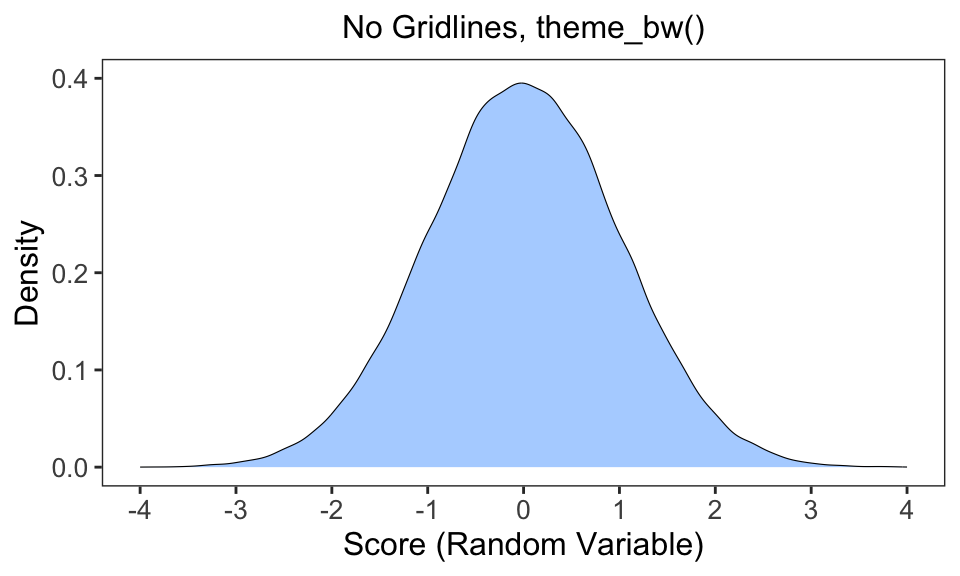
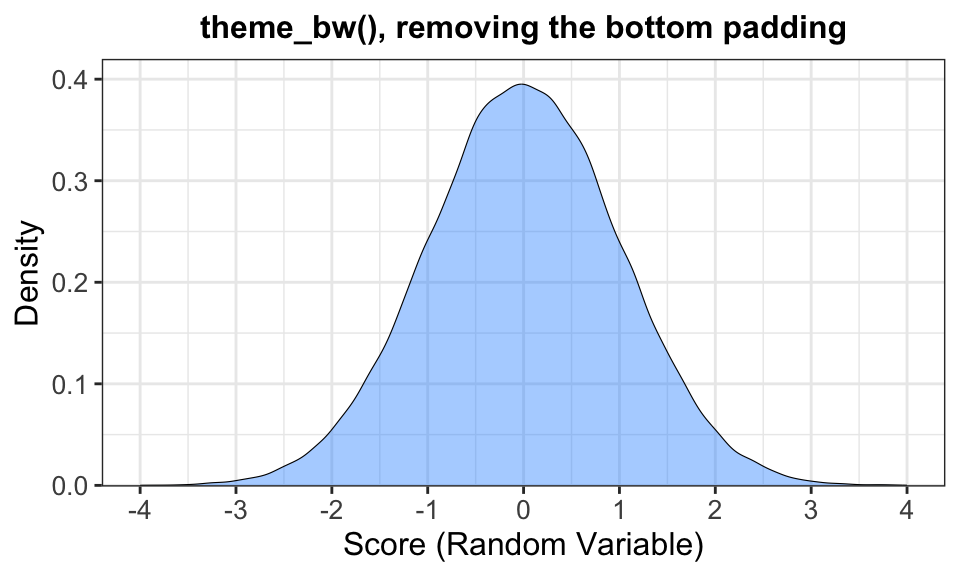
a203

diff --git a/dataps/dataviz.html b/dataps/dataviz.html
@@ -506,21 +506,21 @@ div.csl-indent {
 </div>
 </div>
 <p>In political science research, I have found that the default, minimal, and bw tend to be the most popular. I have also included classic, with its x-axis and y-axis only and also no gridlines. With the specific use of the x-axis and y-axis, a literal data visualization principle would suggest that classic should only be used if the intersection of the x and y-axes is truly the origin (i.e., 0 for both x and y). That fits the bill for the y-axis in this case but not for the x-axis.</p>
-<p>Another data visualization consideration is the “padding” that <code>ggplot</code> adds by default on both ends of each axis. The horizontal padding at the bottom of the graphs is most glaring in this graph because the “floor” is supposed to be zero (which is the minimum possible value of y in this case). Note however the visible gap before this floor in the default, bw, and classic graphs. Because of the look of the minimal theme,</p>
-<p>Take out gridlines:</p>
+<p>Another data visualization consideration is the “padding” that <code>ggplot</code> adds by default on both ends of each axis. The horizontal padding at the bottom of the graphs is most glaring in this graph because the “floor” is supposed to be zero (which is the minimum possible value of y in this case). Note however the visible gap below this floor in the default, bw, and classic graphs. Because of the lack of a background (as in the default) or frame (as in bw), the padding issue is not glaring in the minimal theme.</p>
+<p>To take out the gap on the bottom in <code>theme_bw()</code>, for instance, we could use the <code>expand</code> option within <code>scale_y_continuous</code>. <code>ggplot</code> adds a 5% padding gap on both sides of each axis. That is satisfactory for the x-axis because it ranges from -4 to 4, and we want the padding to exist on the ends to suggest that these are not necessarily theoretical limits. Focusing on the y-axis, however, we want to indicate that 0 <em>is</em> a limit (the minimum, or floor) yet 0.4 is not necessarily a limit. Thus, within <code>scale_y_continuous</code>, I use the <code>expand</code> option to keep the 5% padding at the top (the 0.05, which means 5%, within <code>mult = c(0.003, 0.05)</code>) and I reduce the padding at the bottom to (near) 0 (the 0.003). Why not just use 0 instead of 0.003? I have found that when I use 0, the 0 tick appears just below the bottom border, whereas I like to align the 0 tick with the bottom border.</p>
 <div class="cell" data-layout-align="center">
 <div class="sourceCode cell-code" id="cb10"><pre class="sourceCode r code-with-copy"><code class="sourceCode r"><span id="cb10-1"><a href="#cb10-1" aria-hidden="true" tabindex="-1"></a>mynorm <span class="sc">|&gt;</span> </span>
 <span id="cb10-2"><a href="#cb10-2" aria-hidden="true" tabindex="-1"></a>  <span class="fu">ggplot</span>(<span class="fu">aes</span>(<span class="at">x=</span>score)) <span class="sc">+</span> </span>
 <span id="cb10-3"><a href="#cb10-3" aria-hidden="true" tabindex="-1"></a>  <span class="fu">geom_density</span>(<span class="at">fill=</span><span class="st">"dodgerblue"</span>, <span class="at">alpha=</span>.<span class="dv">4</span>, <span class="at">linewidth=</span>.<span class="dv">2</span>) <span class="sc">+</span> </span>
-<span id="cb10-4"><a href="#cb10-4" aria-hidden="true" tabindex="-1"></a>  <span class="fu">labs</span>(<span class="at">title=</span><span class="st">"No Gridlines, theme_bw()"</span>, </span>
+<span id="cb10-4"><a href="#cb10-4" aria-hidden="true" tabindex="-1"></a>  <span class="fu">labs</span>(<span class="at">title=</span><span class="st">"theme_bw(), removing the bottom padding"</span>, </span>
 <span id="cb10-5"><a href="#cb10-5" aria-hidden="true" tabindex="-1"></a>       <span class="at">x=</span><span class="st">"Score (Random Variable)"</span>, <span class="at">y=</span><span class="st">"Density"</span>) <span class="sc">+</span></span>
 <span id="cb10-6"><a href="#cb10-6" aria-hidden="true" tabindex="-1"></a>  <span class="fu">scale_x_continuous</span>(<span class="at">limits =</span> <span class="fu">c</span>(<span class="sc">-</span><span class="dv">4</span>, <span class="dv">4</span>), <span class="at">breaks =</span> <span class="fu">seq</span>(<span class="sc">-</span><span class="dv">4</span>, <span class="dv">4</span>, <span class="dv">1</span>)) <span class="sc">+</span></span>
-<span id="cb10-7"><a href="#cb10-7" aria-hidden="true" tabindex="-1"></a>  <span class="fu">scale_y_continuous</span>(<span class="at">limits =</span> <span class="fu">c</span>(<span class="dv">0</span>, .<span class="dv">4</span>), <span class="at">breaks =</span> <span class="fu">seq</span>(<span class="dv">0</span>, .<span class="dv">4</span>, .<span class="dv">1</span>)) <span class="sc">+</span></span>
-<span id="cb10-8"><a href="#cb10-8" aria-hidden="true" tabindex="-1"></a>  <span class="fu">theme_bw</span>() <span class="sc">+</span></span>
-<span id="cb10-9"><a href="#cb10-9" aria-hidden="true" tabindex="-1"></a>  <span class="fu">theme</span>(<span class="at">plot.title =</span> <span class="fu">element_text</span>(<span class="at">hjust =</span> <span class="fl">0.5</span>, <span class="at">size=</span><span class="dv">12</span>), </span>
-<span id="cb10-10"><a href="#cb10-10" aria-hidden="true" tabindex="-1"></a>        <span class="at">axis.title =</span> <span class="fu">element_text</span>(<span class="at">size =</span> <span class="dv">12</span>),  </span>
-<span id="cb10-11"><a href="#cb10-11" aria-hidden="true" tabindex="-1"></a>        <span class="at">axis.text  =</span> <span class="fu">element_text</span>(<span class="at">size =</span> <span class="dv">10</span>), </span>
-<span id="cb10-12"><a href="#cb10-12" aria-hidden="true" tabindex="-1"></a>        <span class="at">panel.grid =</span> <span class="fu">element_blank</span>()) </span></code><button title="Copy to Clipboard" class="code-copy-button"><i class="bi"></i></button></pre></div>
+<span id="cb10-7"><a href="#cb10-7" aria-hidden="true" tabindex="-1"></a>  <span class="fu">scale_y_continuous</span>(<span class="at">limits =</span> <span class="fu">c</span>(<span class="dv">0</span>, .<span class="dv">4</span>), <span class="at">breaks =</span> <span class="fu">seq</span>(<span class="dv">0</span>, .<span class="dv">4</span>, .<span class="dv">1</span>), </span>
+<span id="cb10-8"><a href="#cb10-8" aria-hidden="true" tabindex="-1"></a>                     <span class="at">expand =</span> <span class="fu">expansion</span>(<span class="at">mult =</span> <span class="fu">c</span>(<span class="fl">0.003</span>, <span class="fl">0.05</span>))) <span class="sc">+</span></span>
+<span id="cb10-9"><a href="#cb10-9" aria-hidden="true" tabindex="-1"></a>  <span class="fu">theme_bw</span>() <span class="sc">+</span></span>
+<span id="cb10-10"><a href="#cb10-10" aria-hidden="true" tabindex="-1"></a>  <span class="fu">theme</span>(<span class="at">plot.title =</span> <span class="fu">element_text</span>(<span class="at">hjust =</span> <span class="fl">0.5</span>, <span class="at">size=</span><span class="dv">12</span>, <span class="at">face =</span> <span class="st">"bold"</span>), </span>
+<span id="cb10-11"><a href="#cb10-11" aria-hidden="true" tabindex="-1"></a>        <span class="at">axis.title =</span> <span class="fu">element_text</span>(<span class="at">size =</span> <span class="dv">12</span>),  </span>
+<span id="cb10-12"><a href="#cb10-12" aria-hidden="true" tabindex="-1"></a>        <span class="at">axis.text  =</span> <span class="fu">element_text</span>(<span class="at">size =</span> <span class="dv">10</span>)) </span></code><button title="Copy to Clipboard" class="code-copy-button"><i class="bi"></i></button></pre></div>
 <div class="cell-output-display">
 <div class="quarto-figure quarto-figure-center">
 <figure class="figure">
@@ -529,32 +529,106 @@ div.csl-indent {
 </div>
 </div>
 </div>
+<p>Note the difference between this graph and the prior graph that used <code>theme_bw()</code> — it now reduces the padding gap at the bottom.</p>
+<p>Sometimes researchers will have reasons to remove the gridlines altogether or change their look. Below, I show an example that removes the gridlines using theme_bw().</p>
+<div class="cell" data-layout-align="center">
+<div class="sourceCode cell-code" id="cb11"><pre class="sourceCode r code-with-copy"><code class="sourceCode r"><span id="cb11-1"><a href="#cb11-1" aria-hidden="true" tabindex="-1"></a>a <span class="ot">&lt;-</span> mynorm <span class="sc">|&gt;</span> </span>
+<span id="cb11-2"><a href="#cb11-2" aria-hidden="true" tabindex="-1"></a>  <span class="fu">ggplot</span>(<span class="fu">aes</span>(<span class="at">x=</span>score)) <span class="sc">+</span> </span>
+<span id="cb11-3"><a href="#cb11-3" aria-hidden="true" tabindex="-1"></a>  <span class="fu">geom_density</span>(<span class="at">fill=</span><span class="st">"dodgerblue"</span>, <span class="at">alpha=</span>.<span class="dv">4</span>, <span class="at">linewidth=</span>.<span class="dv">2</span>) <span class="sc">+</span> </span>
+<span id="cb11-4"><a href="#cb11-4" aria-hidden="true" tabindex="-1"></a>  <span class="fu">labs</span>(<span class="at">title=</span><span class="st">"No Gridlines"</span>, </span>
+<span id="cb11-5"><a href="#cb11-5" aria-hidden="true" tabindex="-1"></a>       <span class="at">x=</span><span class="st">"Score (Random Variable)</span><span class="sc">\n</span><span class="st">"</span>, <span class="at">y=</span><span class="st">"Density"</span>) <span class="sc">+</span></span>
+<span id="cb11-6"><a href="#cb11-6" aria-hidden="true" tabindex="-1"></a>  <span class="fu">scale_x_continuous</span>(<span class="at">limits =</span> <span class="fu">c</span>(<span class="sc">-</span><span class="dv">4</span>, <span class="dv">4</span>), <span class="at">breaks =</span> <span class="fu">seq</span>(<span class="sc">-</span><span class="dv">4</span>, <span class="dv">4</span>, <span class="dv">1</span>)) <span class="sc">+</span></span>
+<span id="cb11-7"><a href="#cb11-7" aria-hidden="true" tabindex="-1"></a>  <span class="fu">scale_y_continuous</span>(<span class="at">limits =</span> <span class="fu">c</span>(<span class="dv">0</span>, .<span class="dv">4</span>), <span class="at">breaks =</span> <span class="fu">seq</span>(<span class="dv">0</span>, .<span class="dv">4</span>, .<span class="dv">1</span>), </span>
+<span id="cb11-8"><a href="#cb11-8" aria-hidden="true" tabindex="-1"></a>                     <span class="at">expand =</span> <span class="fu">expansion</span>(<span class="at">mult =</span> <span class="fu">c</span>(<span class="fl">0.003</span>, <span class="fl">0.05</span>))) <span class="sc">+</span></span>
+<span id="cb11-9"><a href="#cb11-9" aria-hidden="true" tabindex="-1"></a>  <span class="fu">theme_bw</span>() <span class="sc">+</span></span>
+<span id="cb11-10"><a href="#cb11-10" aria-hidden="true" tabindex="-1"></a>  <span class="fu">theme</span>(<span class="at">plot.title =</span> <span class="fu">element_text</span>(<span class="at">hjust =</span> <span class="fl">0.5</span>, <span class="at">size=</span><span class="dv">12</span>, <span class="at">face=</span><span class="st">"bold"</span>), </span>
+<span id="cb11-11"><a href="#cb11-11" aria-hidden="true" tabindex="-1"></a>        <span class="at">axis.title =</span> <span class="fu">element_text</span>(<span class="at">size =</span> <span class="dv">12</span>),  </span>
+<span id="cb11-12"><a href="#cb11-12" aria-hidden="true" tabindex="-1"></a>        <span class="at">axis.text  =</span> <span class="fu">element_text</span>(<span class="at">size =</span> <span class="dv">10</span>), </span>
+<span id="cb11-13"><a href="#cb11-13" aria-hidden="true" tabindex="-1"></a>        <span class="at">panel.grid =</span> <span class="fu">element_blank</span>()) </span>
+<span id="cb11-14"><a href="#cb11-14" aria-hidden="true" tabindex="-1"></a></span>
+<span id="cb11-15"><a href="#cb11-15" aria-hidden="true" tabindex="-1"></a>b <span class="ot">&lt;-</span> mynorm <span class="sc">|&gt;</span> </span>
+<span id="cb11-16"><a href="#cb11-16" aria-hidden="true" tabindex="-1"></a>  <span class="fu">ggplot</span>(<span class="fu">aes</span>(<span class="at">x=</span>score)) <span class="sc">+</span> </span>
+<span id="cb11-17"><a href="#cb11-17" aria-hidden="true" tabindex="-1"></a>  <span class="fu">geom_density</span>(<span class="at">fill=</span><span class="st">"dodgerblue"</span>, <span class="at">alpha=</span>.<span class="dv">4</span>, <span class="at">linewidth=</span>.<span class="dv">2</span>) <span class="sc">+</span> </span>
+<span id="cb11-18"><a href="#cb11-18" aria-hidden="true" tabindex="-1"></a>  <span class="fu">labs</span>(<span class="at">title=</span><span class="st">"Major Gridlines Only"</span>, </span>
+<span id="cb11-19"><a href="#cb11-19" aria-hidden="true" tabindex="-1"></a>       <span class="at">x=</span><span class="st">"Score (Random Variable)"</span>, <span class="at">y=</span><span class="st">"Density"</span>) <span class="sc">+</span></span>
+<span id="cb11-20"><a href="#cb11-20" aria-hidden="true" tabindex="-1"></a>  <span class="fu">scale_x_continuous</span>(<span class="at">limits =</span> <span class="fu">c</span>(<span class="sc">-</span><span class="dv">4</span>, <span class="dv">4</span>), <span class="at">breaks =</span> <span class="fu">seq</span>(<span class="sc">-</span><span class="dv">4</span>, <span class="dv">4</span>, <span class="dv">1</span>)) <span class="sc">+</span></span>
+<span id="cb11-21"><a href="#cb11-21" aria-hidden="true" tabindex="-1"></a>  <span class="fu">scale_y_continuous</span>(<span class="at">limits =</span> <span class="fu">c</span>(<span class="dv">0</span>, .<span class="dv">4</span>), <span class="at">breaks =</span> <span class="fu">seq</span>(<span class="dv">0</span>, .<span class="dv">4</span>, .<span class="dv">1</span>), </span>
+<span id="cb11-22"><a href="#cb11-22" aria-hidden="true" tabindex="-1"></a>                     <span class="at">expand =</span> <span class="fu">expansion</span>(<span class="at">mult =</span> <span class="fu">c</span>(<span class="fl">0.003</span>, <span class="fl">0.05</span>))) <span class="sc">+</span></span>
+<span id="cb11-23"><a href="#cb11-23" aria-hidden="true" tabindex="-1"></a>  <span class="fu">theme_bw</span>() <span class="sc">+</span></span>
+<span id="cb11-24"><a href="#cb11-24" aria-hidden="true" tabindex="-1"></a>  <span class="fu">theme</span>(<span class="at">plot.title =</span> <span class="fu">element_text</span>(<span class="at">hjust =</span> <span class="fl">0.5</span>, <span class="at">size=</span><span class="dv">12</span>, <span class="at">face=</span><span class="st">"bold"</span>), </span>
+<span id="cb11-25"><a href="#cb11-25" aria-hidden="true" tabindex="-1"></a>        <span class="at">axis.title =</span> <span class="fu">element_text</span>(<span class="at">size =</span> <span class="dv">12</span>),  </span>
+<span id="cb11-26"><a href="#cb11-26" aria-hidden="true" tabindex="-1"></a>        <span class="at">axis.text  =</span> <span class="fu">element_text</span>(<span class="at">size =</span> <span class="dv">10</span>), </span>
+<span id="cb11-27"><a href="#cb11-27" aria-hidden="true" tabindex="-1"></a>        <span class="at">panel.grid.minor =</span> <span class="fu">element_blank</span>()) </span>
+<span id="cb11-28"><a href="#cb11-28" aria-hidden="true" tabindex="-1"></a></span>
+<span id="cb11-29"><a href="#cb11-29" aria-hidden="true" tabindex="-1"></a>c <span class="ot">&lt;-</span> mynorm <span class="sc">|&gt;</span> </span>
+<span id="cb11-30"><a href="#cb11-30" aria-hidden="true" tabindex="-1"></a>  <span class="fu">ggplot</span>(<span class="fu">aes</span>(<span class="at">x=</span>score)) <span class="sc">+</span> </span>
+<span id="cb11-31"><a href="#cb11-31" aria-hidden="true" tabindex="-1"></a>  <span class="fu">geom_density</span>(<span class="at">fill=</span><span class="st">"dodgerblue"</span>, <span class="at">alpha=</span>.<span class="dv">4</span>, <span class="at">linewidth=</span>.<span class="dv">2</span>) <span class="sc">+</span> </span>
+<span id="cb11-32"><a href="#cb11-32" aria-hidden="true" tabindex="-1"></a>  <span class="fu">labs</span>(<span class="at">title=</span><span class="st">"Major Gridlines Only, Dotted"</span>, </span>
+<span id="cb11-33"><a href="#cb11-33" aria-hidden="true" tabindex="-1"></a>       <span class="at">x=</span><span class="st">"Score (Random Variable)"</span>, <span class="at">y=</span><span class="st">"Density"</span>) <span class="sc">+</span></span>
+<span id="cb11-34"><a href="#cb11-34" aria-hidden="true" tabindex="-1"></a>  <span class="fu">scale_x_continuous</span>(<span class="at">limits =</span> <span class="fu">c</span>(<span class="sc">-</span><span class="dv">4</span>, <span class="dv">4</span>), <span class="at">breaks =</span> <span class="fu">seq</span>(<span class="sc">-</span><span class="dv">4</span>, <span class="dv">4</span>, <span class="dv">1</span>)) <span class="sc">+</span></span>
+<span id="cb11-35"><a href="#cb11-35" aria-hidden="true" tabindex="-1"></a>  <span class="fu">scale_y_continuous</span>(<span class="at">limits =</span> <span class="fu">c</span>(<span class="dv">0</span>, .<span class="dv">4</span>), <span class="at">breaks =</span> <span class="fu">seq</span>(<span class="dv">0</span>, .<span class="dv">4</span>, .<span class="dv">1</span>), </span>
+<span id="cb11-36"><a href="#cb11-36" aria-hidden="true" tabindex="-1"></a>                     <span class="at">expand =</span> <span class="fu">expansion</span>(<span class="at">mult =</span> <span class="fu">c</span>(<span class="fl">0.003</span>, <span class="fl">0.05</span>))) <span class="sc">+</span></span>
+<span id="cb11-37"><a href="#cb11-37" aria-hidden="true" tabindex="-1"></a>  <span class="fu">theme_bw</span>() <span class="sc">+</span></span>
+<span id="cb11-38"><a href="#cb11-38" aria-hidden="true" tabindex="-1"></a>  <span class="fu">theme</span>(<span class="at">plot.title =</span> <span class="fu">element_text</span>(<span class="at">hjust =</span> <span class="fl">0.5</span>, <span class="at">size=</span><span class="dv">12</span>, <span class="at">face=</span><span class="st">"bold"</span>), </span>
+<span id="cb11-39"><a href="#cb11-39" aria-hidden="true" tabindex="-1"></a>        <span class="at">axis.title =</span> <span class="fu">element_text</span>(<span class="at">size =</span> <span class="dv">12</span>),  </span>
+<span id="cb11-40"><a href="#cb11-40" aria-hidden="true" tabindex="-1"></a>        <span class="at">axis.text  =</span> <span class="fu">element_text</span>(<span class="at">size =</span> <span class="dv">10</span>), </span>
+<span id="cb11-41"><a href="#cb11-41" aria-hidden="true" tabindex="-1"></a>        <span class="at">panel.grid.minor =</span> <span class="fu">element_blank</span>(), </span>
+<span id="cb11-42"><a href="#cb11-42" aria-hidden="true" tabindex="-1"></a>        <span class="at">panel.grid.major =</span> <span class="fu">element_line</span>(<span class="at">linetype =</span> <span class="st">"dotted"</span>)) </span>
+<span id="cb11-43"><a href="#cb11-43" aria-hidden="true" tabindex="-1"></a></span>
+<span id="cb11-44"><a href="#cb11-44" aria-hidden="true" tabindex="-1"></a>d <span class="ot">&lt;-</span> mynorm <span class="sc">|&gt;</span> </span>
+<span id="cb11-45"><a href="#cb11-45" aria-hidden="true" tabindex="-1"></a>  <span class="fu">ggplot</span>(<span class="fu">aes</span>(<span class="at">x=</span>score)) <span class="sc">+</span> </span>
+<span id="cb11-46"><a href="#cb11-46" aria-hidden="true" tabindex="-1"></a>  <span class="fu">geom_density</span>(<span class="at">fill=</span><span class="st">"dodgerblue"</span>, <span class="at">alpha=</span>.<span class="dv">4</span>, <span class="at">linewidth=</span>.<span class="dv">2</span>) <span class="sc">+</span> </span>
+<span id="cb11-47"><a href="#cb11-47" aria-hidden="true" tabindex="-1"></a>  <span class="fu">labs</span>(<span class="at">title=</span><span class="st">"Major Gridlines Only, Dotted, Dark Gray"</span>, </span>
+<span id="cb11-48"><a href="#cb11-48" aria-hidden="true" tabindex="-1"></a>       <span class="at">x=</span><span class="st">"Score (Random Variable)"</span>, <span class="at">y=</span><span class="st">"Density"</span>) <span class="sc">+</span></span>
+<span id="cb11-49"><a href="#cb11-49" aria-hidden="true" tabindex="-1"></a>  <span class="fu">scale_x_continuous</span>(<span class="at">limits =</span> <span class="fu">c</span>(<span class="sc">-</span><span class="dv">4</span>, <span class="dv">4</span>), <span class="at">breaks =</span> <span class="fu">seq</span>(<span class="sc">-</span><span class="dv">4</span>, <span class="dv">4</span>, <span class="dv">1</span>)) <span class="sc">+</span></span>
+<span id="cb11-50"><a href="#cb11-50" aria-hidden="true" tabindex="-1"></a>  <span class="fu">scale_y_continuous</span>(<span class="at">limits =</span> <span class="fu">c</span>(<span class="dv">0</span>, .<span class="dv">4</span>), <span class="at">breaks =</span> <span class="fu">seq</span>(<span class="dv">0</span>, .<span class="dv">4</span>, .<span class="dv">1</span>), </span>
+<span id="cb11-51"><a href="#cb11-51" aria-hidden="true" tabindex="-1"></a>                     <span class="at">expand =</span> <span class="fu">expansion</span>(<span class="at">mult =</span> <span class="fu">c</span>(<span class="fl">0.003</span>, <span class="fl">0.05</span>))) <span class="sc">+</span></span>
+<span id="cb11-52"><a href="#cb11-52" aria-hidden="true" tabindex="-1"></a>  <span class="fu">theme_bw</span>() <span class="sc">+</span></span>
+<span id="cb11-53"><a href="#cb11-53" aria-hidden="true" tabindex="-1"></a>  <span class="fu">theme</span>(<span class="at">plot.title =</span> <span class="fu">element_text</span>(<span class="at">hjust =</span> <span class="fl">0.5</span>, <span class="at">size=</span><span class="dv">12</span>, <span class="at">face=</span><span class="st">"bold"</span>), </span>
+<span id="cb11-54"><a href="#cb11-54" aria-hidden="true" tabindex="-1"></a>        <span class="at">axis.title =</span> <span class="fu">element_text</span>(<span class="at">size =</span> <span class="dv">12</span>),  </span>
+<span id="cb11-55"><a href="#cb11-55" aria-hidden="true" tabindex="-1"></a>        <span class="at">axis.text  =</span> <span class="fu">element_text</span>(<span class="at">size =</span> <span class="dv">10</span>), </span>
+<span id="cb11-56"><a href="#cb11-56" aria-hidden="true" tabindex="-1"></a>        <span class="at">panel.grid.minor =</span> <span class="fu">element_blank</span>(), </span>
+<span id="cb11-57"><a href="#cb11-57" aria-hidden="true" tabindex="-1"></a>        <span class="at">panel.grid.major =</span> <span class="fu">element_line</span>(<span class="at">linetype =</span> <span class="st">"dotted"</span>, </span>
+<span id="cb11-58"><a href="#cb11-58" aria-hidden="true" tabindex="-1"></a>                                        <span class="at">color=</span><span class="st">"gray70"</span>)) </span>
+<span id="cb11-59"><a href="#cb11-59" aria-hidden="true" tabindex="-1"></a></span>
+<span id="cb11-60"><a href="#cb11-60" aria-hidden="true" tabindex="-1"></a></span>
+<span id="cb11-61"><a href="#cb11-61" aria-hidden="true" tabindex="-1"></a>a <span class="sc">+</span> b <span class="sc">+</span> c <span class="sc">+</span> d <span class="sc">+</span> <span class="fu">plot_layout</span>(<span class="at">ncol =</span> <span class="dv">2</span>)</span></code><button title="Copy to Clipboard" class="code-copy-button"><i class="bi"></i></button></pre></div>
+<div class="cell-output-display">
+<div class="quarto-figure quarto-figure-center">
+<figure class="figure">
+<p><img src="dataviz_files/figure-html/unnamed-chunk-11-1.png" class="img-fluid quarto-figure quarto-figure-center figure-img" width="768"></p>
+</figure>
+</div>
+</div>
+</div>
+<p>The <code>panel.grid</code> options in <code>theme</code> allow for alterations to the gridlines. The first graph eliminates all gridlines, while the second one includes “major gridlines” only (by suppressing <code>panel.grid.minor</code>). Note that ggplot specifies “major” versus “minor” gridlines. The major gridlines are those corresponding to the numeric labels on the axes. The minor gridlines are those halfway in between the major gridlines. On the bottom row, I report major gridlines only but change the linestyle to “dotted.” The lower-left graph uses the default color with dotted lines, which are barely visible; note that “dashed” lines using the default color are more visible. The last graph darkens the dashed gridlines to “gray70,” which makes the lines more visible.</p>
+<p>With some basic data visualization principles in hand, we can now proceed to generating and interpreting univariate graphs.</p>
 </section>
 </section>
 <section id="univariate-graphical-displays" class="level2" data-number="4.2">
 <h2 data-number="4.2" class="anchored" data-anchor-id="univariate-graphical-displays"><span class="header-section-number">4.2</span> Univariate Graphical Displays</h2>
 <div class="cell">
-<div class="sourceCode cell-code" id="cb11"><pre class="sourceCode r code-with-copy"><code class="sourceCode r"><span id="cb11-1"><a href="#cb11-1" aria-hidden="true" tabindex="-1"></a><span class="fu">set.seed</span>(<span class="dv">123</span>)</span>
-<span id="cb11-2"><a href="#cb11-2" aria-hidden="true" tabindex="-1"></a>mynorm2 <span class="ot">&lt;-</span> <span class="fu">data.frame</span>(<span class="at">id=</span><span class="dv">1</span><span class="sc">:</span><span class="dv">100000</span>) <span class="sc">|&gt;</span> </span>
-<span id="cb11-3"><a href="#cb11-3" aria-hidden="true" tabindex="-1"></a>  <span class="fu">mutate</span>(<span class="at">score=</span><span class="fu">rnorm</span>(<span class="at">n =</span> <span class="dv">100000</span>, <span class="at">mean =</span> <span class="dv">0</span>, <span class="at">sd =</span> <span class="dv">2</span>))</span>
-<span id="cb11-4"><a href="#cb11-4" aria-hidden="true" tabindex="-1"></a></span>
-<span id="cb11-5"><a href="#cb11-5" aria-hidden="true" tabindex="-1"></a>a <span class="ot">&lt;-</span> mynorm <span class="sc">|&gt;</span> </span>
-<span id="cb11-6"><a href="#cb11-6" aria-hidden="true" tabindex="-1"></a>  <span class="fu">ggplot</span>(<span class="fu">aes</span>(<span class="at">x=</span>score)) <span class="sc">+</span> </span>
-<span id="cb11-7"><a href="#cb11-7" aria-hidden="true" tabindex="-1"></a>  <span class="fu">geom_density</span>() <span class="sc">+</span> </span>
-<span id="cb11-8"><a href="#cb11-8" aria-hidden="true" tabindex="-1"></a>  <span class="fu">xlim</span>(<span class="sc">-</span><span class="dv">8</span>, <span class="dv">8</span>) <span class="sc">+</span></span>
-<span id="cb11-9"><a href="#cb11-9" aria-hidden="true" tabindex="-1"></a>  <span class="fu">ylim</span>(<span class="dv">0</span>, .<span class="dv">4</span>)</span>
-<span id="cb11-10"><a href="#cb11-10" aria-hidden="true" tabindex="-1"></a></span>
-<span id="cb11-11"><a href="#cb11-11" aria-hidden="true" tabindex="-1"></a>b<span class="ot">&lt;-</span> mynorm2 <span class="sc">|&gt;</span> </span>
-<span id="cb11-12"><a href="#cb11-12" aria-hidden="true" tabindex="-1"></a>  <span class="fu">ggplot</span>(<span class="fu">aes</span>(<span class="at">x=</span>score)) <span class="sc">+</span> </span>
-<span id="cb11-13"><a href="#cb11-13" aria-hidden="true" tabindex="-1"></a>  <span class="fu">geom_density</span>() <span class="sc">+</span> </span>
-<span id="cb11-14"><a href="#cb11-14" aria-hidden="true" tabindex="-1"></a>  <span class="fu">xlim</span>(<span class="sc">-</span><span class="dv">8</span>, <span class="dv">8</span>) <span class="sc">+</span></span>
-<span id="cb11-15"><a href="#cb11-15" aria-hidden="true" tabindex="-1"></a>  <span class="fu">ylim</span>(<span class="dv">0</span>, .<span class="dv">4</span>)</span>
-<span id="cb11-16"><a href="#cb11-16" aria-hidden="true" tabindex="-1"></a></span>
-<span id="cb11-17"><a href="#cb11-17" aria-hidden="true" tabindex="-1"></a>a <span class="sc">+</span> b <span class="sc">+</span> <span class="fu">plot_layout</span>(<span class="at">ncol =</span> <span class="dv">2</span>)</span></code><button title="Copy to Clipboard" class="code-copy-button"><i class="bi"></i></button></pre></div>
+<div class="sourceCode cell-code" id="cb12"><pre class="sourceCode r code-with-copy"><code class="sourceCode r"><span id="cb12-1"><a href="#cb12-1" aria-hidden="true" tabindex="-1"></a><span class="fu">set.seed</span>(<span class="dv">123</span>)</span>
+<span id="cb12-2"><a href="#cb12-2" aria-hidden="true" tabindex="-1"></a>mynorm2 <span class="ot">&lt;-</span> <span class="fu">data.frame</span>(<span class="at">id=</span><span class="dv">1</span><span class="sc">:</span><span class="dv">100000</span>) <span class="sc">|&gt;</span> </span>
+<span id="cb12-3"><a href="#cb12-3" aria-hidden="true" tabindex="-1"></a>  <span class="fu">mutate</span>(<span class="at">score=</span><span class="fu">rnorm</span>(<span class="at">n =</span> <span class="dv">100000</span>, <span class="at">mean =</span> <span class="dv">0</span>, <span class="at">sd =</span> <span class="dv">2</span>))</span>
+<span id="cb12-4"><a href="#cb12-4" aria-hidden="true" tabindex="-1"></a></span>
+<span id="cb12-5"><a href="#cb12-5" aria-hidden="true" tabindex="-1"></a>a <span class="ot">&lt;-</span> mynorm <span class="sc">|&gt;</span> </span>
+<span id="cb12-6"><a href="#cb12-6" aria-hidden="true" tabindex="-1"></a>  <span class="fu">ggplot</span>(<span class="fu">aes</span>(<span class="at">x=</span>score)) <span class="sc">+</span> </span>
+<span id="cb12-7"><a href="#cb12-7" aria-hidden="true" tabindex="-1"></a>  <span class="fu">geom_density</span>() <span class="sc">+</span> </span>
+<span id="cb12-8"><a href="#cb12-8" aria-hidden="true" tabindex="-1"></a>  <span class="fu">xlim</span>(<span class="sc">-</span><span class="dv">8</span>, <span class="dv">8</span>) <span class="sc">+</span></span>
+<span id="cb12-9"><a href="#cb12-9" aria-hidden="true" tabindex="-1"></a>  <span class="fu">ylim</span>(<span class="dv">0</span>, .<span class="dv">4</span>)</span>
+<span id="cb12-10"><a href="#cb12-10" aria-hidden="true" tabindex="-1"></a></span>
+<span id="cb12-11"><a href="#cb12-11" aria-hidden="true" tabindex="-1"></a>b <span class="ot">&lt;-</span> mynorm2 <span class="sc">|&gt;</span> </span>
+<span id="cb12-12"><a href="#cb12-12" aria-hidden="true" tabindex="-1"></a>  <span class="fu">ggplot</span>(<span class="fu">aes</span>(<span class="at">x=</span>score)) <span class="sc">+</span> </span>
+<span id="cb12-13"><a href="#cb12-13" aria-hidden="true" tabindex="-1"></a>  <span class="fu">geom_density</span>() <span class="sc">+</span> </span>
+<span id="cb12-14"><a href="#cb12-14" aria-hidden="true" tabindex="-1"></a>  <span class="fu">xlim</span>(<span class="sc">-</span><span class="dv">8</span>, <span class="dv">8</span>) <span class="sc">+</span></span>
+<span id="cb12-15"><a href="#cb12-15" aria-hidden="true" tabindex="-1"></a>  <span class="fu">ylim</span>(<span class="dv">0</span>, .<span class="dv">4</span>)</span>
+<span id="cb12-16"><a href="#cb12-16" aria-hidden="true" tabindex="-1"></a></span>
+<span id="cb12-17"><a href="#cb12-17" aria-hidden="true" tabindex="-1"></a>a <span class="sc">+</span> b <span class="sc">+</span> <span class="fu">plot_layout</span>(<span class="at">ncol =</span> <span class="dv">2</span>)</span></code><button title="Copy to Clipboard" class="code-copy-button"><i class="bi"></i></button></pre></div>
 <div class="cell-output-display">
 <div>
 <figure class="figure">
-<p><img src="dataviz_files/figure-html/unnamed-chunk-11-1.png" class="img-fluid figure-img" width="768"></p>
+<p><img src="dataviz_files/figure-html/unnamed-chunk-12-1.png" class="img-fluid figure-img" width="768"></p>
 </figure>
 </div>
 </div>
